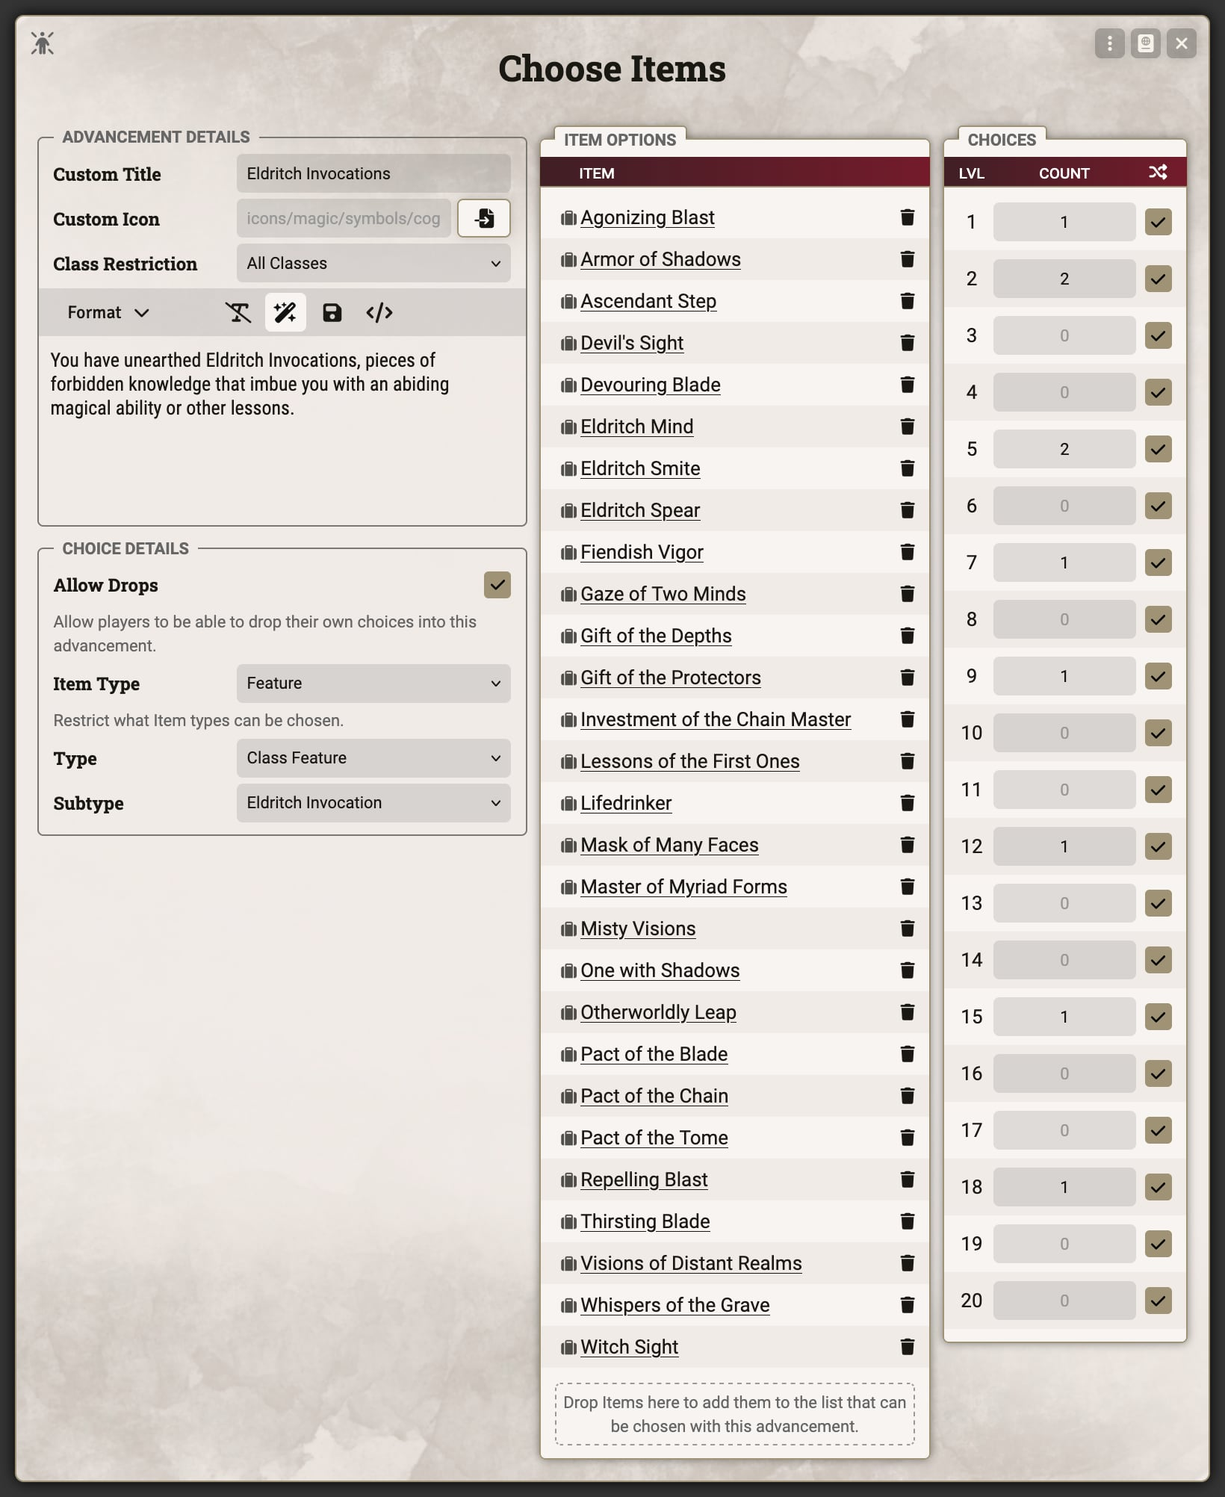
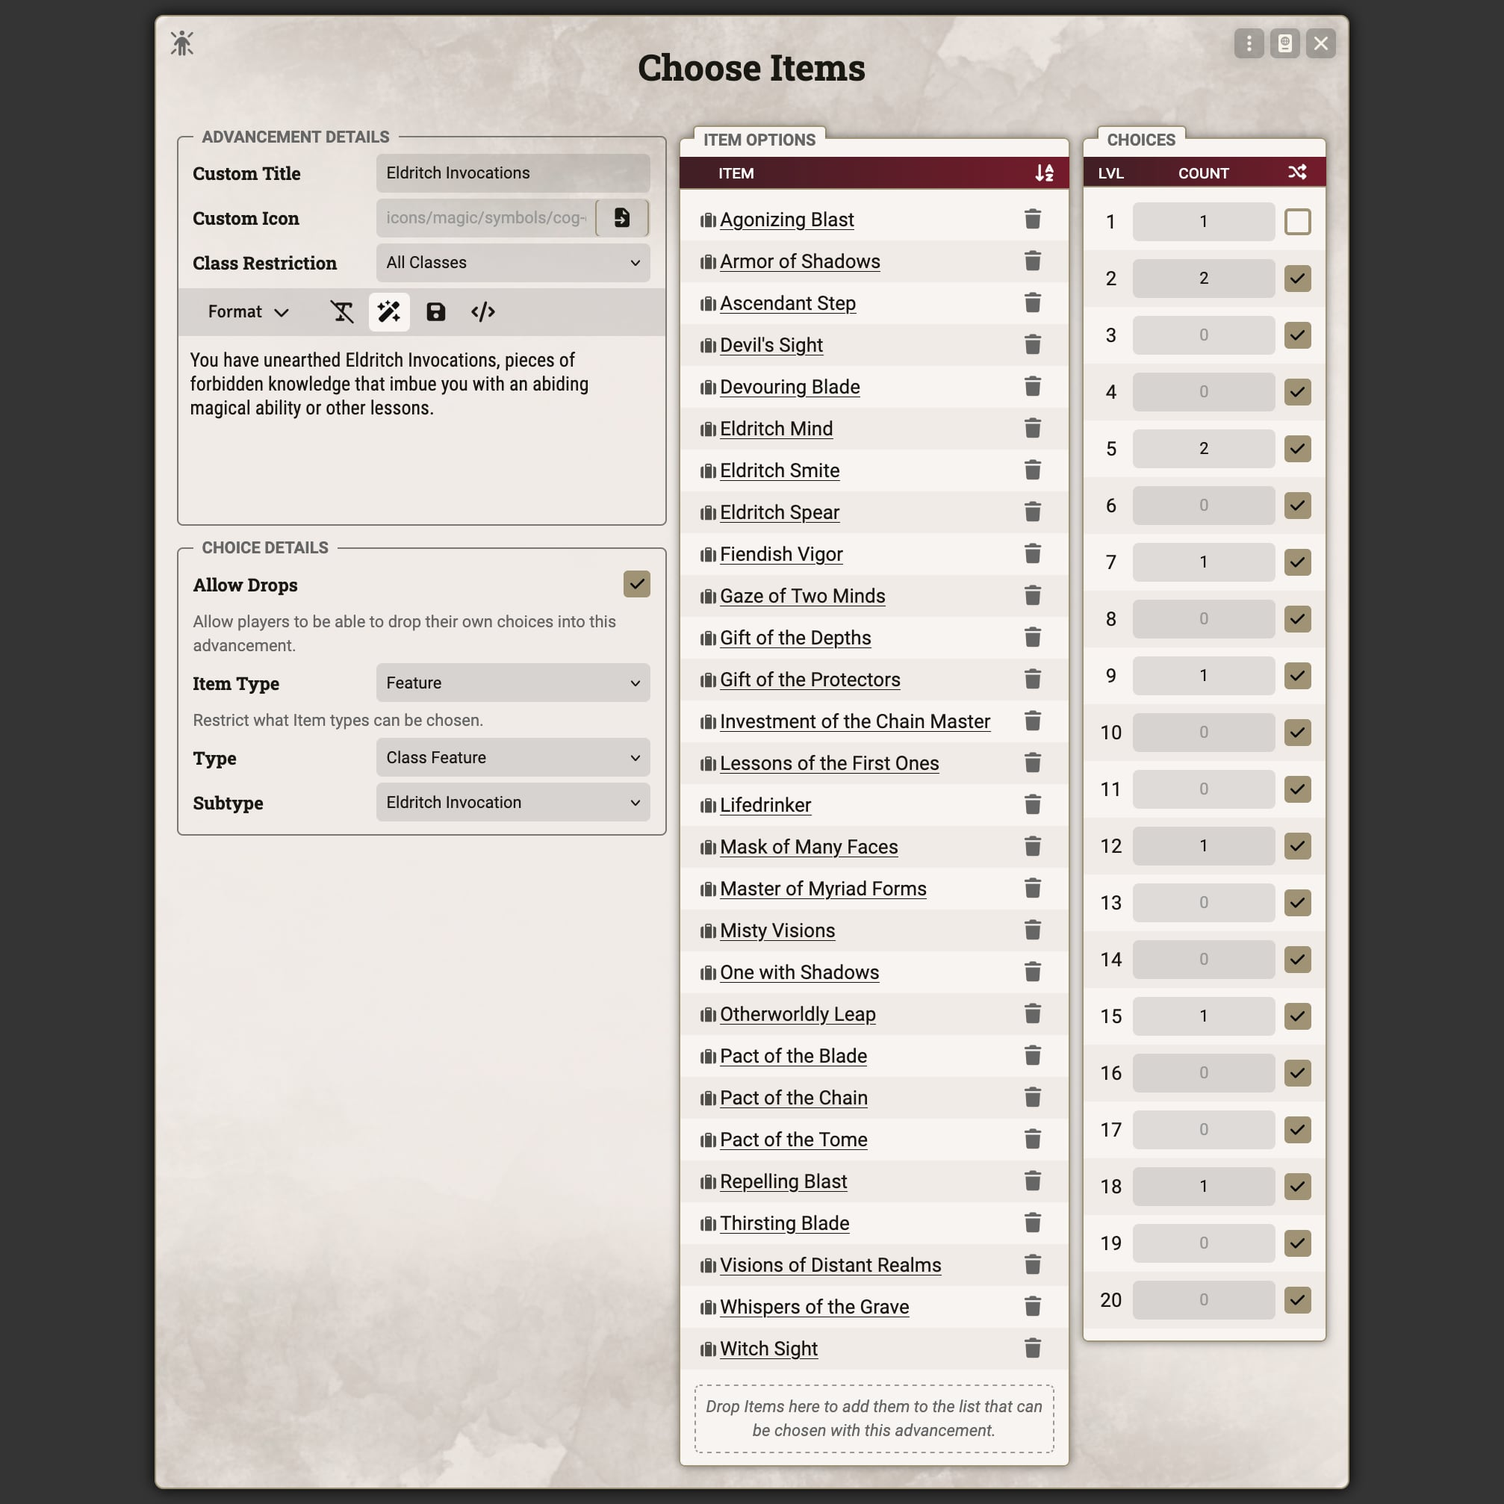
[#7198] Update Advancement documentation, add Modify Items page

diff --git a/wiki/Advancement-Type-Item-Grant.md b/wiki/Advancement-Type-Item-Grant.md
@@ -1,4 +1,4 @@
-![Up to date as of 5.3.0](https://img.shields.io/static/v1?label=dnd5e&message=5.3.0&color=informational)
+![Up to date as of 6.0.0](https://img.shields.io/static/v1?label=dnd5e&message=6.0.0&color=informational)
 
 The Grant Items advancement allows for giving a character features, spells, or equipment (though it isn't designed for starting equipment).
 
@@ -12,14 +12,16 @@ There are two ways to support optional items in the advancement. The main "Optio
 
 The other way is using the checkboxes for each of the items in the list. Checking one of these boxes with the main optional option unchecked results in that item only being optional and defaulting to unchecked. If the main optional property is checked and one of the items is also checked, then that item will start unchecked by default, rather than checked.
 
+There are two sorting modes to the items list. By default it is set to manual sorting, allowing individual item entries to be rearranged using the drag handles on the right side of each item row. The button the top right can be used to toggle to alphabetical sorting.
+
 ![Grant Items Configuration](https://raw.githubusercontent.com/foundryvtt/dnd5e/publish-wiki/wiki/images/advancement/item-grant-configuration-spells.jpg)
 
-When using the advancement to grant spells to a character, additional controls will appear that allow configuring the added spell. These controls allow for setting a specific ability modifier and preparation method on the added spell, as well is giving it limited uses.
+When using the advancement to grant spells to a character, additional controls will appear that allow configuring the added spell. These controls allow for setting a options for ability modified, spellcasting method, and preparation mode on the added spell, as well is giving it limited uses.
 
 The way in which limited uses are added varies depending on the preparation method and the "Require Slot" checkbox:
-- "Preparation Method" is *Spellcasting* or *Pact Magic*, "Required Slot" is *unchecked*: A new [Forward activity](Activity-Type-Forward) will be added to the spell allowing it to be case a number of times and to be cast using spell slots as normal.
-- "Preparation Method" is *Spellcasting* or *Pact Magic*, "Required Slot" is *checked*: The original spell casting activity will be modified with limited uses requiring both a limited use and a spell slot to be spent to cast the spell.
-- "Preparation Method" is *At Will*, *Innate*, or *Ritual Only*: The original spell casting activity will be modified with limited uses allowing the spell to be cast that many times. The spell cannot be cast using a spell slot.
+- "Spellcasting Method" is *Spellcasting* or *Pact Magic*, "Required Slot" is *unchecked*: A new [Forward activity](Activity-Type-Forward) will be added to the spell allowing it to be case a number of times and to be cast using spell slots as normal.
+- "Spellcasting Method" is *Spellcasting* or *Pact Magic*, "Required Slot" is *checked*: The original spell casting activity will be modified with limited uses requiring both a limited use and a spell slot to be spent to cast the spell.
+- "Spellcasting Method" is *At Will*, *Innate*, or *Ritual Only*: The original spell casting activity will be modified with limited uses allowing the spell to be cast that many times. The spell cannot be cast using a spell slot.
 
 ## Usage
 
@@ -35,20 +37,23 @@ The [original proposal](https://github.com/foundryvtt/dnd5e/issues/1400) for the
 
 ### Configuration Schema
 
-The Grant Items advancement contains the `items` property, an array of objects each containing the `uuid` property pointing to the item to add and the `optional` boolean.
+The Grant Items advancement contains the `items` property, an array of objects each containing the `uuid` property pointing to the item to add, the `optional` boolean, and a `sort` property that controls the entry's position when manual sorting is used.
 
 The global `optional` boolean controls whether the whole advancement is optional.
+
+The `sorting` property controls whether manual sorting (`m`) or alphabetic sorting (`a`) is used.
 
 The `spell` object contains configuration data for granted spells, but can be `null` if no spell configuration is defined. It contains the `ability` property, a set of ability IDs, the `method` property indicating the preparation method to apply, `prepared` indicates whether the spell is unprepared, prepared, or always prepared, and a `uses` object containing the `max` formula and the `per` property, one of `CONFIG.DND5E.limitedUsePeriods`.
 
 ```javascript
 {
   items: [
-    { uuid: "Compendium.dnd5e.classfeatures.3sYPftQKnbbVnHrh", optional: false },
-    { uuid: "Compendium.dnd5e.classfeatures.DPN2Gfk8yi1Z5wp7", optional: false },
-    { uuid: "Compendium.dnd5e.classfeatures.ohwfuwnvuoBWlSQr", optional: false }
+    { optional: false, sort: 0, uuid: "Compendium.dnd5e.classfeatures.3sYPftQKnbbVnHrh" },
+    { optional: false, sort: 10000, uuid: "Compendium.dnd5e.classfeatures.DPN2Gfk8yi1Z5wp7" },
+    { optional: false, sort: 20000, uuid: "Compendium.dnd5e.classfeatures.ohwfuwnvuoBWlSQr" }
   ],
   optional: false,
+  sorting: "m",
   spell: {
     ability: [],
     method: "",

diff --git a/wiki/Advancement-Type-Scale-Value.md b/wiki/Advancement-Type-Scale-Value.md
@@ -1,4 +1,4 @@
-![Up to date as of 5.3.0](https://img.shields.io/static/v1?label=dnd5e&message=5.3.0&color=informational)
+![Up to date as of 6.0.0](https://img.shields.io/static/v1?label=dnd5e&message=6.0.0&color=informational)
 
 The Scale Value advancement allows for setting a value that increases with character or class level and is available anywhere roll formula data is used.
 
@@ -6,7 +6,7 @@ The Scale Value advancement allows for setting a value that increases with chara
 
 ![Scale Value Configuration](https://raw.githubusercontent.com/foundryvtt/dnd5e/publish-wiki/wiki/images/advancement/scale-value-configuration.jpg)
 
-The first step in configuring a Scale Value is determining what type of data is being represented. The advancement comes with several supported types including "Numeric" (e.g. Barbarian's Rage bonus), "Challenge Rating" (e.g. Druid's maximum Wild Shape CR), "Dice" (e.g. Rogue's Sneak Attack dice), and "Distance" (e.g. Monk's Unarmored Movement bonus). If none of these types match what is needed, then the "Anything" type can be used.
+The first step in configuring a Scale Value is determining what type of data is being represented. The advancement comes with several supported types including "Numeric" (e.g. Barbarian's Rage bonus), "Challenge Rating" (e.g. Druid's maximum Wild Shape CR), "Dice" (e.g. Rogue's Sneak Attack dice), "Distance" (e.g. Monk's Unarmored Movement bonus), and "Usage" (e.g. Bards's Bardic Inspiration uses). If none of these types match what is needed, then the "Anything" type can be used.
 
 If the "Distance" type is selected then an additional field will be available allowing for setting the units used to measure the distance value. The same units are used across all levels.
 
@@ -24,6 +24,10 @@ Accessing the scale value in formulas involves typing `@scale.<class identifier>
 
 For the "Dice" scale value type there are several additional options for access. For a Rogue's Sneak Attack, the whole die formula can be accessed like any other type: `@scale.rogue.sneak-attack` produces `4d6`. If only the die part is desired, appending `.die` to the value will fetch it: `@scale.rogue.sneak-attack.die` produces `d6`. Similarly adding `.number` will grab the die count: `@scale.rogue.sneak-attack.number` produces `4`. Finally `.faces` can be used to access the number of faces on the die without the leading `d`: `@scale.rogue.sneak-attack.faces` produces `6`.
 
+![Configuration Scale Value Recovery](https://raw.githubusercontent.com/foundryvtt/dnd5e/publish-wiki/wiki/images/advancement/scale-value-usage-recovery.jpg)
+
+For the "Usage" scale value type, there is also the option use the scale value to define the recovery period on an item or activity. For non-embedded items, selecting the "Scale Value" option in the recovery period dropdown will create a text area where the scale value's formula path can be entered (e.g. `@scale.bard.inspiration-uses`). Items that are already embedded will instead show a list of available usage scale values. When a scale value is entered into recovery, those uses will then recover based on the period entered in the scale value at the current level, allowing features to recover on a Long Rest at one level and change to Short Rest at a higher level.
+
 ## API
 
 The [original proposal](https://github.com/foundryvtt/dnd5e/issues/1406) for the Scale Value advancement is available on GitHub, but may not reflect the current state of the advancement.
@@ -37,6 +41,8 @@ The `identifier` property controls how the advancement is available in formulas.
 The `scale` property is a mapping of character or class levels and an object. The contained object structure varies depending on the advancement type, but for most it contains `value` as a string or number.
 
 For die scale value it instead contains `number` and `faces`, two number specifying the number of dice and the denomination, as well as `modifiers`, a set of roll modifiers. The `modifiers` value currently can only be set using an active effect (e.g. `system.scale.rogue.sneak-attack.modifiers | ADD | rr=1`).
+
+For usage scale value in addition to value it contains `period`, which accepts a value from `CONFIG.DND5E.limitedUsePeriods`.
 
 The `type` property indicates what type of scale value is used.
 

diff --git a/wiki/Advancement-Type-Item-Choice.md b/wiki/Advancement-Type-Item-Choice.md
@@ -1,4 +1,4 @@
-![Up to date as of 5.3.0](https://img.shields.io/static/v1?label=dnd5e&message=5.3.0&color=informational)
+![Up to date as of 6.0.0](https://img.shields.io/static/v1?label=dnd5e&message=6.0.0&color=informational)
 
 The Choose Items advancement is designed for any feature that gives the player a choice of options to add to their character at a certain level. This covers features with a limited set of options such as Fighting Style and more open ended features such as Magical Secrets.
 
@@ -13,6 +13,8 @@ The "Allow Drops" option controls whether players can choose their own items thr
 If the "Item Type" is set to "Spell" then an additional set of controls appear. The "Spell Level" allows for restricting what levels of spells can be chosen when added manually by the player. It can be restricted to a specific spell level or allow for selecting any spell that the character can cast. The "Spell Lists" allows restricting the spell selection to only spells included on certain spell lists. The remaining controls affect the spells that are added to the sheet. More information on using these controls is available on the [Grant Items advancement guide](Advancement-Type-Grant-Items).
 
 The second column is the pool of items available for selection. Dropping items here will add them to the list, and they can be removed by clicking the delete entry trashcan next to each item. Some advancements, like Eldritch Invocations, might have a large list of items filled here, while others, such as Magical Secrets won't include any items at all.
+
+There are two sorting modes to the items list. By default it is set to manual sorting, allowing individual item entries to be rearranged using the drag handles on the right side of each item row. The button the top right can be used to toggle to alphabetical sorting.
 
 The third column is a list of the number of items that can be chosen at any given level. These numbers should indicate only the number of new items allowed for each level, not the total the character should have. So for a Warlock's Eldritch Invocations it should include a `1` at 1st level, a `2` at 2nd level, and a `2` at 5th level, but nothing at 3rd or 4th level.
 
@@ -40,9 +42,11 @@ The Choose Items advancement contains the `allowDrops` boolean which controls wh
 
 The `choices` object contains objects grouped by level that include the `count` property indicating how many items the player can choose at that level, and the `replacement` boolean indicating whether a replacement item can be chosen.
 
-The `pool` property is an array of objects that include a `uuid` property indicating the item that can be chosen.
+The `pool` property is an array of objects that include a `uuid` property indicating the item that can be chosen and a `sort` property that controls the entry's position when manual sorting is used.
 
 The `restriction` object contains `type`, indicating the item category (in this case "Class Features"), `subtype` indicating the subtype within that (in this case only "Hunter's Prey" features), `level` indicating the allowed spell level if spells are selected, and `list` includes the IDs of spell lists to restrict the choices to.
+
+The `sorting` property controls whether manual sorting (`m`) or alphabetic sorting (`a`) is used.
 
 The `spell` property is an object with spell configuration which is detailed in the [Grant Items advancement guide](Advancement-Type-Grant-Items).
 
@@ -55,9 +59,9 @@ The `type` property contains the general item type allowed, such as classes, wea
     3: { count: 1, replacement: false }
   },
   pool: [
-    { uuid: "Compendium.dnd5e.classfeatures.5gx1O0sxK08awEO9" },
-    { uuid: "Compendium.dnd5e.classfeatures.StfmqK1twVfukpa0" },
-    { uuid: "Compendium.dnd5e.classfeatures.C6sHdDGmCMo0cYHd" }
+    { sort: 0, uuid: "Compendium.dnd5e.classfeatures.5gx1O0sxK08awEO9" },
+    { sort: 10000, uuid: "Compendium.dnd5e.classfeatures.StfmqK1twVfukpa0" },
+    { sort: 20000, uuid: "Compendium.dnd5e.classfeatures.C6sHdDGmCMo0cYHd" }
   ],
   restriction: {
     type: "class",
@@ -65,6 +69,7 @@ The `type` property contains the general item type allowed, such as classes, wea
     level: "",
     list: []
   },
+  sorting: "m",
   spell: null,
   type: "feat"
 }

diff --git a/wiki/Advancement-Type-Modify-Items.md b/wiki/Advancement-Type-Modify-Items.md
@@ -1,0 +1,51 @@
+![Up to date as of 6.0.0](https://img.shields.io/static/v1?label=dnd5e&message=6.0.0&color=informational)
+
+The Modify Items advancement allows for applying an [enchantment](Enchantment.md) to one or more items on the actor sheet, changing how that item operates.
+
+## Configuration
+
+![Modify Items Configuration](https://raw.githubusercontent.com/foundryvtt/dnd5e/publish-wiki/wiki/images/advancement/modify-item-configuration.jpg)
+
+Configuring a Modify Items advancement first involves adding an enchantment. This can be done directly using the plus button to create an enchantment directly on this item, selecting an existing enchantment on the item from the dropdown, or dropping an enchantment from a compendium onto the configuration dialog.
+
+Once an enchantment is specific, the items it applies to can be controlled using the "Modified Items" input. This field takes either plain identifiers (e.g. `wild-shape` or `bane`) or typed identifiers (e.g. `feat:wild-shape` or `spell:bane`). The provided enchantment will be applied to all items that match the provided identifier, so it is usually better to include the type to avoid any potential over-application.
+
+## Usage
+
+![Modify Items Flow](https://raw.githubusercontent.com/foundryvtt/dnd5e/publish-wiki/wiki/images/advancement/modify-item-flow.jpg)
+
+The Modify Items advancement will present the player with a list of the enchantments that will be applied along with the items to which they will be applied. There is no user control available.
+
+## API
+
+The [original proposal](https://github.com/foundryvtt/dnd5e/pull/6705) for the Modify Items advancement is available on GitHub, but may not reflect the current state of the advancement.
+
+### Configuration Schema
+
+The Modify Items advancement configuration contains the `changes` property, an array of objects each containing the unique `_id` property, an optional `uuid` property, and the `identifiers` property which is a set of identifiers to match.
+
+For local enchantment, the `_id` property will match the ID of the enchantment to apply and the `uuid` property will be `null`. For remote enchantments the `_id` property will be random and the `uuid` property will point to an enchantment in a compendium.
+
+```javascript
+{
+  changes: [{
+    _id: "hEH7rtcFJaMUHFwJ",
+    uuid: null,
+    identifiers: new Set(["feat:wild-shape"])
+  }]
+}
+```
+
+### Value Schema
+
+The Modify Items advancement stores a `modified` property which is an array of objects each containing a `change` ID matching one of the entries in the `changes` array in configuration, the `effect` ID for the enchantment created on a specific item, and the `item` ID for the item that was modified.
+
+```javascript
+{
+  modified: [{
+    change: "M7eo7scau0y8yqck",
+    effect: "uZuT5u0Qgg57vYNj",
+    item: "SLH3RALzZIpNULQI"
+  }]
+}
+```

diff --git a/wiki/Advancement.md b/wiki/Advancement.md
@@ -1,4 +1,4 @@
-![Up to date as of 5.3.0](https://img.shields.io/static/v1?label=dnd5e&message=5.3.0&color=informational)
+![Up to date as of 6.0.0](https://img.shields.io/static/v1?label=dnd5e&message=6.0.0&color=informational)
 
 ## Advancement System
 
@@ -26,6 +26,9 @@ The [grant items advancement](Advancement-Type-Item-Grant) defines a list of fea
 
 ### Hit Points *(class only)*
 The [hit points advancement](Advancement-Type-Hit-Points) keeps track of hit point values for each level of a class. The player will have an option for rolling their hit points or taking the average value.
+
+### Modify Items
+The [modify items advancement](Advancement-Type-Modify-Items) allows for applying enchantments to items on the actor's sheet, changing how those items behave.
 
 ### Scale Value
 [Scale values](Advancement-Type-Scale-Value) are formula values that change arbitrarily depending on the level of the class or subclass to which they belong. These values are then made available to be used in roll formulas or elsewhere in the system. A few examples of this include a Bard's inspiration die size, a Rogue's sneak attack value, or a Cleric's channel divinity uses.
@@ -65,6 +68,7 @@ The `order` value in the `Advancement#metadata` object determines in which order
 * `30` - Trait
 * `40` - Grant Items
 * `50` - Choose Items
+* `55` - Modify Items
 * `60` - Scale Value
 * `70` - Subclass
 * `100` - (base advancement class)

diff --git a/wiki/Advancement-Type-Subclass.md b/wiki/Advancement-Type-Subclass.md
@@ -1,4 +1,4 @@
-![Up to date as of 5.3.0](https://img.shields.io/static/v1?label=dnd5e&message=5.3.0&color=informational)
+![Up to date as of 6.0.0](https://img.shields.io/static/v1?label=dnd5e&message=6.0.0&color=informational)
 
 The Subclass advancement allows for indicating the level at which a class takes it subclass and providing a custom subclass name (such as "Martial Archetype") that will be used in the class journal. This advancement can only be added to classes and each class can only have a single advancement of this type.
 

diff --git a/wiki/Advancement-Type-Size.md b/wiki/Advancement-Type-Size.md
@@ -1,4 +1,4 @@
-![Up to date as of 5.3.0](https://img.shields.io/static/v1?label=dnd5e&message=5.3.0&color=informational)
+![Up to date as of 6.0.0](https://img.shields.io/static/v1?label=dnd5e&message=6.0.0&color=informational)
 
 The Size advancement allows a species to set the creature size of a character and will present an option of sizes upon adding a species if more than one size is possible. This advancement can only be added to species and each species can only have a single advancement of this type.
 

diff --git a/wiki/Home.md b/wiki/Home.md
@@ -21,6 +21,7 @@
     - [Advancement Type: Choose Items](Advancement-Type-Item-Choice.md)
     - [Advancement Type: Grant Items](Advancement-Type-Item-Grant.md)
     - [Advancement Type: Hit Points](Advancement-Type-Hit-Points.md)
+    - [Advancement Type: Modify Items](Advancement-Type-Modify-Items.md)
     - [Advancement Type: Scale Value](Advancement-Type-Scale-Value.md)
     - [Advancement Type: Size](Advancement-Type-Size.md)
     - [Advancement Type: Subclass](Advancement-Type-Subclass.md)

diff --git a/wiki/Advancement-Type-Ability-Score-Improvement.md b/wiki/Advancement-Type-Ability-Score-Improvement.md
@@ -1,4 +1,4 @@
-![Up to date as of 5.3.0](https://img.shields.io/static/v1?label=dnd5e&message=5.3.0&color=informational)
+![Up to date as of 6.0.0](https://img.shields.io/static/v1?label=dnd5e&message=6.0.0&color=informational)
 
 The Ability Score Improvement allows a player to improve one or more their their ability scores, either a fixed amount or using a certain number of points, or to optionally take a feat when used on a class.
 

diff --git a/wiki/Advancement-Type-Hit-Points.md b/wiki/Advancement-Type-Hit-Points.md
@@ -1,4 +1,4 @@
-![Up to date as of 5.3.0](https://img.shields.io/static/v1?label=dnd5e&message=5.3.0&color=informational)
+![Up to date as of 6.0.0](https://img.shields.io/static/v1?label=dnd5e&message=6.0.0&color=informational)
 
 The Hit Points advancement type keeps track of hit point choices for each level of a class. This advancement can only be added to classes and each class can only have a single advancement of this type.
 

diff --git a/wiki/Advancement-Type-Trait.md b/wiki/Advancement-Type-Trait.md
@@ -1,4 +1,4 @@
-![Up to date as of 5.3.0](https://img.shields.io/static/v1?label=dnd5e&message=5.3.0&color=informational)
+![Up to date as of 6.0.0](https://img.shields.io/static/v1?label=dnd5e&message=6.0.0&color=informational)
 
 The Trait advancement allows assigning a set of trait to an actor. Traits include things like proficiencies, languages, and resistances.
 
